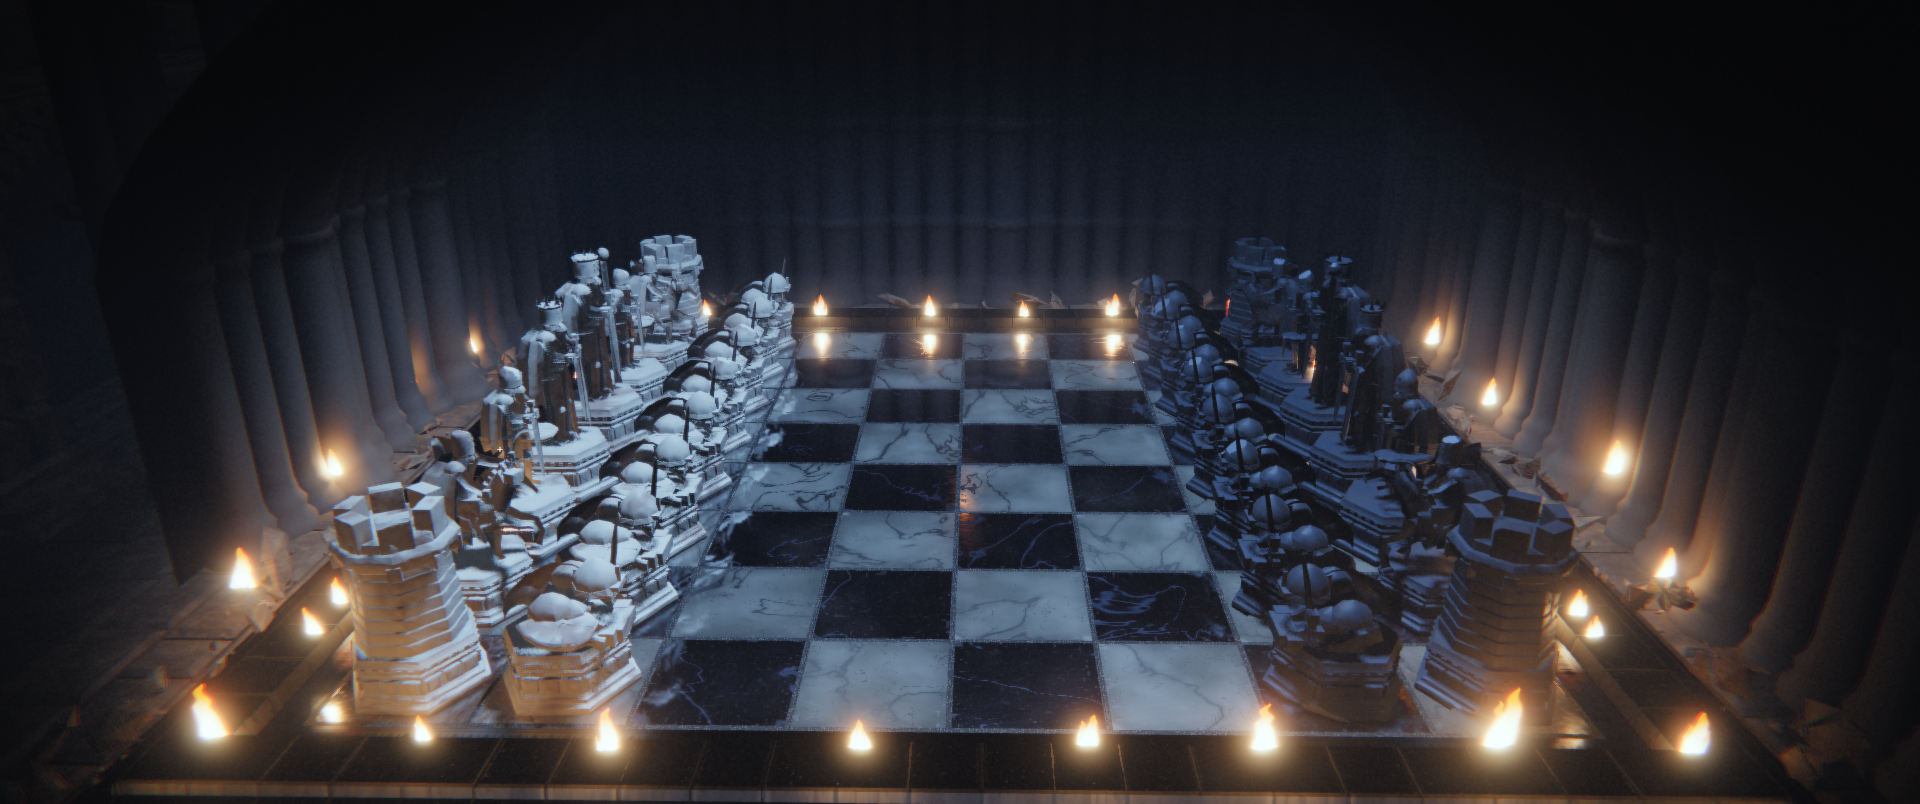
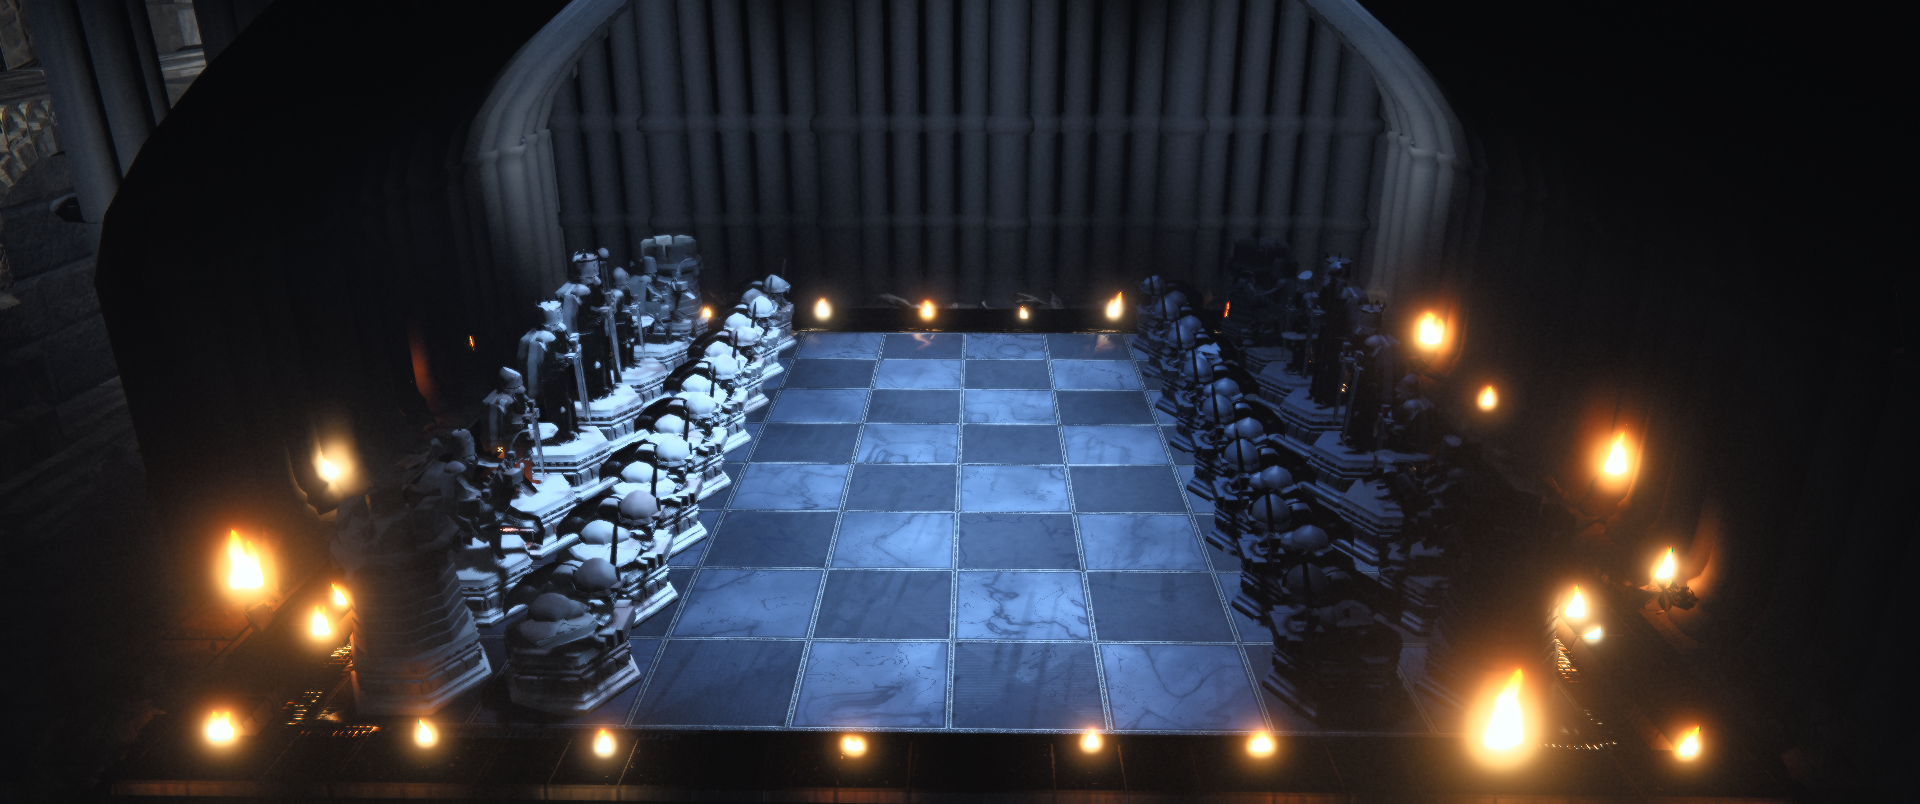
Strip letterbox bars before measuring — a flaw that corrupted every delta
The film reference frames are 1920x1080 with hard anamorphic bars top and bottom:
roughly a QUARTER of their pixels, at zero luminance and zero saturation. Our
renders are 1920x804 of pure picture. Comparing them whole-frame made the
reference look far darker, far less saturated and far more deeply shadowed than
its actual picture, and every critic quoting those deltas inherited the error.

metrics.mjs now detects and crops the bars, reports the crop it applied, and
measures picture against picture.

The correction is large. On wide-establishing:

                       before          after
  fracDeepShadow   0.110 vs 0.331   0.110 vs 0.106
  meanSaturation   0.312 vs 0.242   0.312 vs 0.322
  histogramEntropy  6.78 vs 5.95     6.78 vs 6.89

The 'blacks are far too lifted' gap that three rounds of lighting work chased was
substantially an artifact of counting letterbox as deep shadow. The real remaining
colour gaps are smaller and different: coolFraction -0.056 and warmFraction +0.038,
i.e. the room is a little too warm and not quite cold enough.

Credit for spotting this goes to the lighting builder, which found the 25.4%
figure while working the picture-area numbers by hand; this commit fixes the tool
so every critic benefits.

Claude-Session: https://claude.ai/code/session_01YJAdescyxgmhR6GChLDgdh

diff --git a/src/destruction/index.ts b/src/destruction/index.ts
@@ -107,8 +107,8 @@ export function createDestruction(world: World, _deps: { pieces: PieceFactory })
 
     const frags = fracture(soup, {
       rng: rng.fork('cells'),
-      cells: staged ? (high ? 20 : 10) : high ? 58 : 24,
-      chips: staged ? (high ? 5 : 2) : high ? 20 : 8,
+      cells: staged ? (high ? 16 : 9) : high ? 58 : 24,
+      chips: staged ? (high ? 4 : 2) : high ? 20 : 8,
       impact: dir,
       base,
       height: target.height,
@@ -122,6 +122,11 @@ export function createDestruction(world: World, _deps: { pieces: PieceFactory })
       base.z - dir.z * radius * 0.25,
     );
 
+    // Wreckage from earlier in the fight is a HEAP, not a field: it has been ground
+    // over and kicked together by everything that walked past since, and five old
+    // captures' worth of debris flung a full two squares each turns the board into
+    // gravel. The live burst throws at full strength.
+    const spread = staged ? 0.55 : 1;
     const fresh: Body[] = [];
     const vrng = rng.fork('launch');
     for (const f of frags) {
@@ -135,10 +140,10 @@ export function createDestruction(world: World, _deps: { pieces: PieceFactory })
       // away and is still in the air a second and a half later, and the reference has
       // the wreckage down and still, in a heap, around the piece that was struck.
       const light = Math.min(1.8, 0.42 / (0.14 + f.radius));
-      const speed = force * vrng.float(1.2, 2.8) * light;
+      const speed = force * vrng.float(1.2, 2.8) * light * spread;
       const vel = new THREE.Vector3(
         away.x * speed + dir.x * speed * 0.45 + vrng.gauss() * 0.32,
-        Math.abs(away.y) * speed * 0.40 + vrng.float(0.8, 2.6) * Math.min(1.4, light),
+        Math.abs(away.y) * speed * 0.40 + vrng.float(0.8, 2.6) * Math.min(1.4, light) * spread,
         away.z * speed + dir.z * speed * 0.45 + vrng.gauss() * 0.32,
       );
       const spin = Math.min(17, 5.5 * light + 2.5);

diff --git a/src/lighting/environment.ts b/src/lighting/environment.ts
@@ -110,7 +110,7 @@ export function createEnvironment(world: World): Environment {
   const hemi = new THREE.HemisphereLight(
     new THREE.Color(COLD.sky),
     new THREE.Color(COLD.ground),
-    0.48,
+    0.54,
   );
   hemi.position.set(0, 18, 0);
   group.add(hemi);
@@ -141,7 +141,7 @@ export function createEnvironment(world: World): Environment {
   // to cover the armies and the aisles behind them, so the lateral falloff that separates
   // board from room never happened. Tightening the cone and lengthening the penumbra puts
   // the light on the marble and lets the ranks sit on the shoulder of it.
-  const key = new THREE.SpotLight(new THREE.Color(COLD.key), 320, 0, 0.45, 0.6, 1.0);
+  const key = new THREE.SpotLight(new THREE.Color(COLD.key), 350, 0, 0.45, 0.6, 1.0);
   key.position.set(-2.5, 27, 1.5);
   key.target.position.set(0, 0, 0);
   group.add(key);
@@ -162,7 +162,7 @@ export function createEnvironment(world: World): Environment {
   // They cast no shadows; the key remains the only shadow-caster.
   const aisle: THREE.SpotLight[] = [];
   for (const ax of [-7.5, 0, 7.5]) {
-    const s = new THREE.SpotLight(new THREE.Color(COLD.key), 185, 0, 0.28, 0.85, 1.0);
+    const s = new THREE.SpotLight(new THREE.Color(COLD.key), 200, 0, 0.28, 0.85, 1.0);
     s.position.set(ax, 20, 0);
     s.target.position.set(ax, 0, 0);
     s.castShadow = false;

diff --git a/src/destruction/dust.ts b/src/destruction/dust.ts
@@ -126,10 +126,10 @@ void main(){
   // this lobe; more means we are looking into it. One texture fetch buys every puff a
   // lit side and a shadowed side, which is what makes a heap of billboards read as a
   // solid rolling mass rather than as a flat grey stain.
-  float ahead = texture2D(uMap, vUv + vLight * 0.030).r;
-  float lit = clamp(0.5 + (t.r - ahead) * 2.6, 0.0, 1.0);
+  float ahead = texture2D(uMap, vUv + vLight * 0.026).r;
+  float lit = clamp(0.5 + (t.r - ahead) * 2.2, 0.0, 1.0);
   // The green channel is finer-grained density: structure at a second scale.
-  vec3 col = vCol * (0.42 + 0.95 * lit) * (0.80 + 0.34 * t.g);
+  vec3 col = vCol * (0.48 + 0.88 * lit) * (0.84 + 0.28 * t.g);
   gl_FragColor = vec4(col * a, a);
 }
 `;

diff --git a/src/lighting/palette.ts b/src/lighting/palette.ts
@@ -11,13 +11,13 @@
 /** Cold room. Every one of these is a blue whose R < G < B. */
 export const COLD = {
   /** Hemisphere sky term — the soft cool fill that models everything. */
-  sky: 0x9daacc,
+  sky: 0x9daecc,
   /** Hemisphere ground term — cold bounce off the marble, darker and bluer. */
   ground: 0x3b4048,
   /** Flat ambient floor so nothing in the deep room goes to pure black too early. */
   ambient: 0x556880,
   /** The very soft top light that grounds pieces with a contact shadow. */
-  key: 0xa2b8f0,
+  key: 0xa2bcf0,
   /** Atmospheric veil colour. Distance reads as *this*, not as darkness. */
   haze: 0x22334f,
   /** Unresolved ceiling / beyond-the-arcade void. */

diff --git a/src/lighting/flames.ts b/src/lighting/flames.ts
@@ -405,7 +405,7 @@ export function createFlames(world: World, opts: { lightCount: number }): FlameS
   const bodyMat = new THREE.ShaderMaterial({
     uniforms: {
       uTime: { value: 0 },
-      uIntensity: { value: 7.8 },
+      uIntensity: { value: 7.2 },
       uCore: { value: new THREE.Color(FIRE.core).convertSRGBToLinear() },
       uMid: { value: new THREE.Color(FIRE.mid).convertSRGBToLinear() },
       uEdge: { value: new THREE.Color(FIRE.edge).convertSRGBToLinear() },

diff --git a/src/lighting/grade.ts b/src/lighting/grade.ts
@@ -76,7 +76,7 @@ export const GradeShader = {
      */
     uSatShadow: { value: 0.40 },
     /** Saturation from the mid-tones up, where the cold marble has to read blue. */
-    uSaturation: { value: 1.03 },
+    uSaturation: { value: 1.06 },
     uSatRamp: { value: new THREE.Vector2(0.03, 0.28) },
     /**
      * Cold DI balance, pushed further apart. On the picture-area comparison the film has

diff --git a/src/destruction/fracture.ts b/src/destruction/fracture.ts
@@ -67,8 +67,8 @@ export interface FractureOptions {
  * chalk: push this past about 1.6 and the wreckage blows out white and stops belonging
  * to the statue it came from.
  */
-const FRESH_GAIN = 1.35;
-const FRESH_FLOOR = 0.022;
+const FRESH_GAIN = 1.22;
+const FRESH_FLOOR = 0.030;
 
 export function freshColourFor(soup: Soup): [number, number, number] {
   const [r, g, b] = meanColour(soup);
